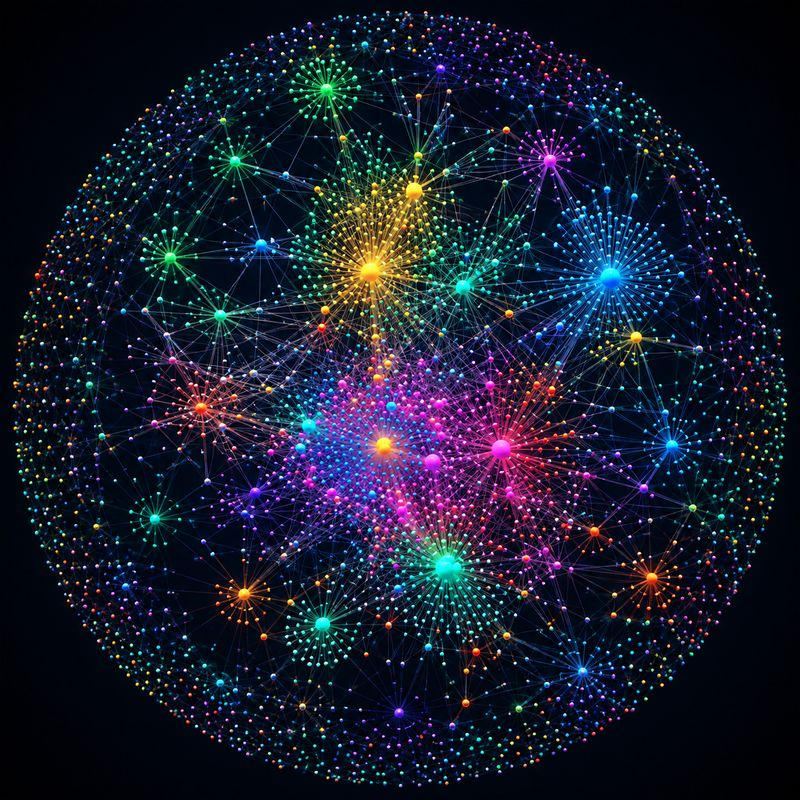
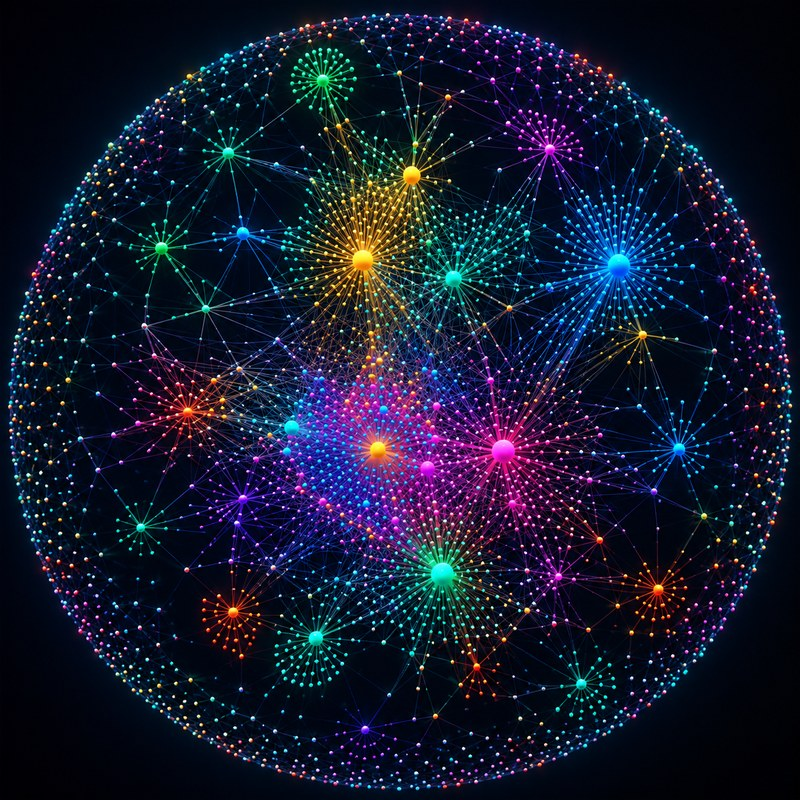
More clear image for 2nd brain

diff --git a/index.html b/index.html
@@ -98,12 +98,11 @@
 
 <figure class="banner">
   <img
-    src="images/second-brain-graph-1400.jpg"
+    src="images/second-brain-graph-1254.jpg"
     srcset="images/second-brain-graph-800.jpg 800w,
-            images/second-brain-graph-1400.jpg 1400w,
-            images/second-brain-graph-2000.jpg 2000w"
+            images/second-brain-graph-1254.jpg 1254w"
     sizes="(max-width:840px) 92vw, 792px"
-    width="1400" height="1400"
+    width="1254" height="1254"
     alt="A spherical graph view of my second brain: hundreds of coloured dots, each a note, joined by faint lines into bright clusters around the topics I return to most."
     loading="lazy">
   <figcaption>A few years of notes in bird&rsquo;s-eye view. The bright hubs are the topics I keep returning to.</figcaption>
